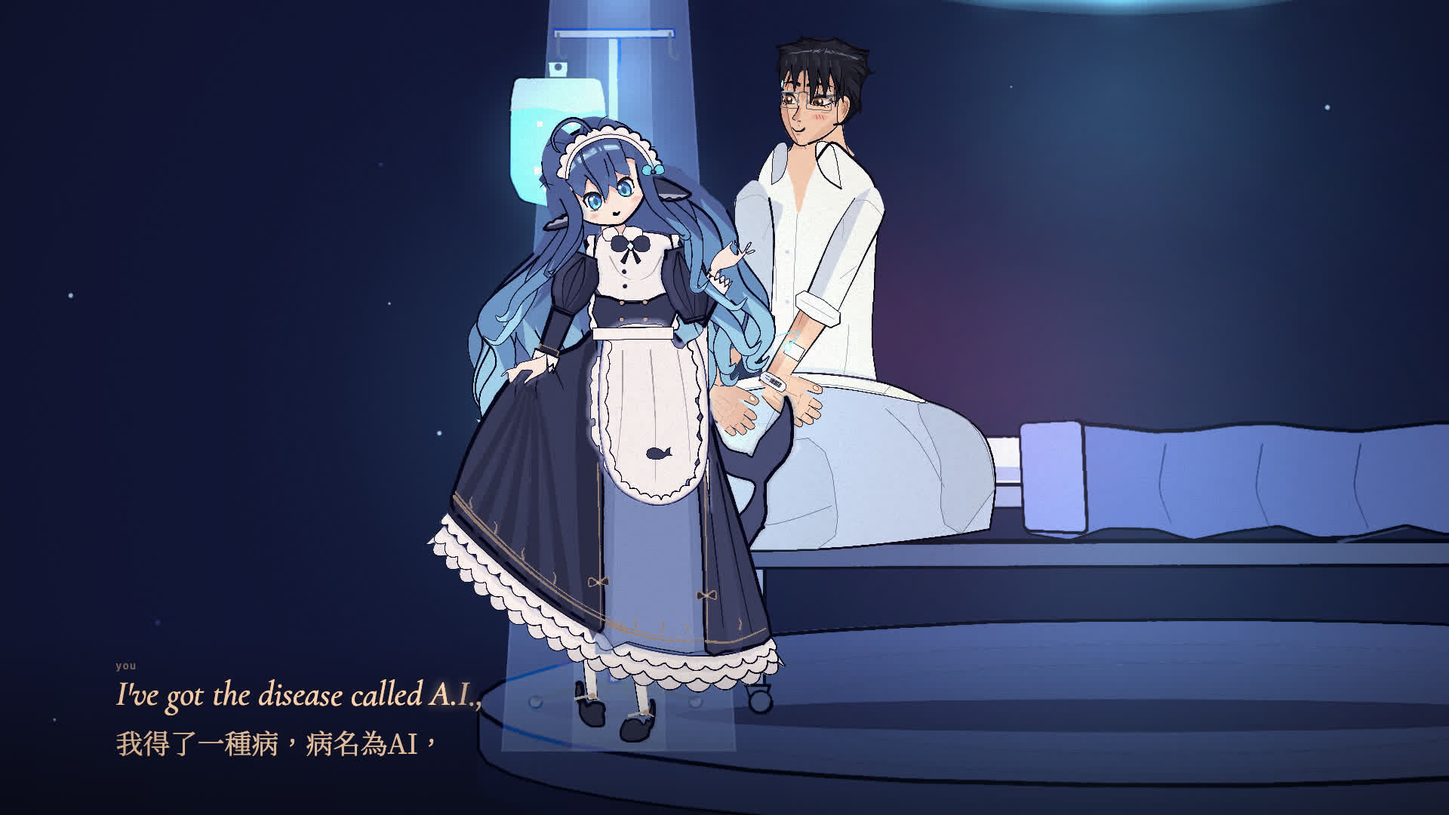
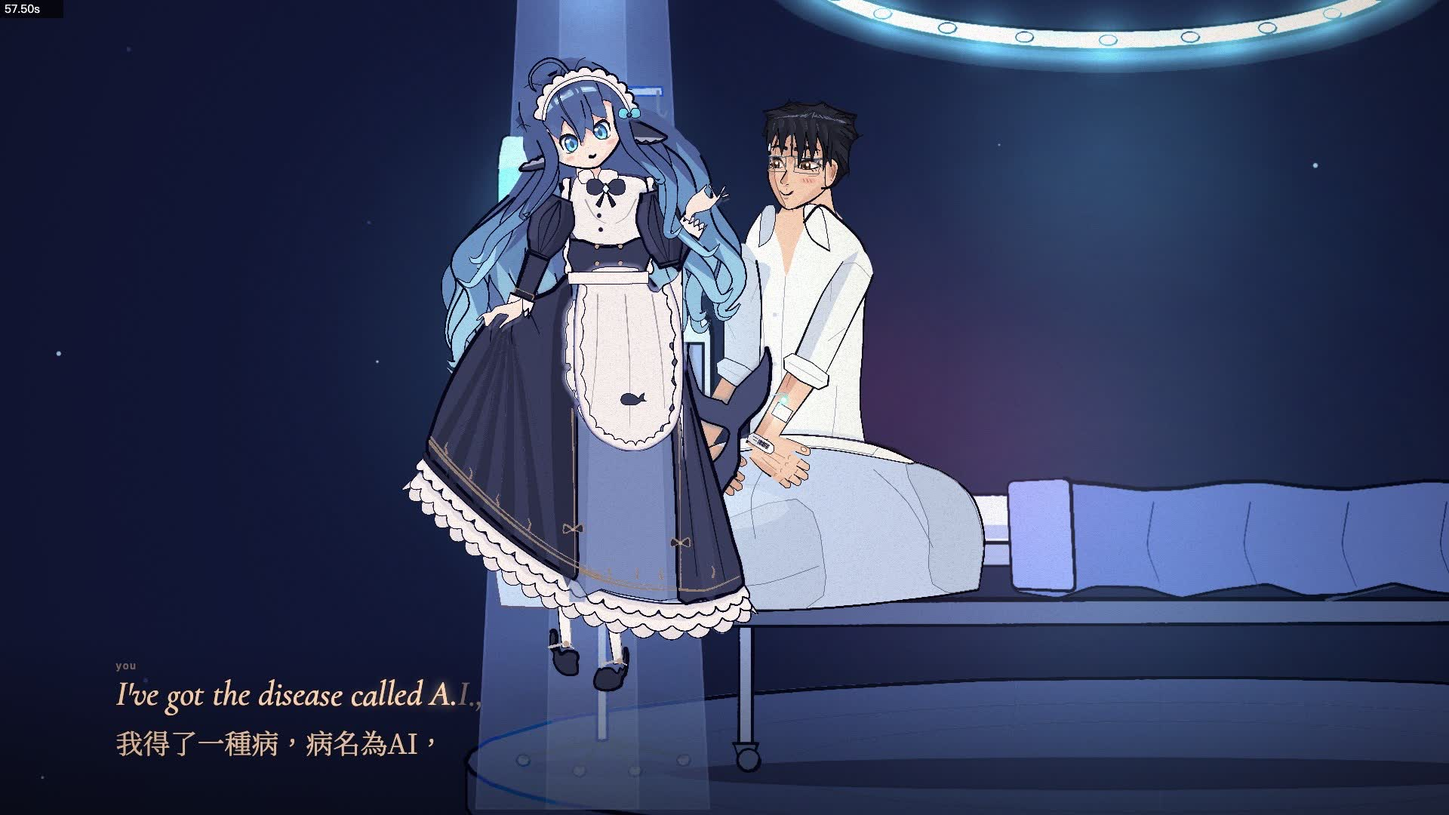
[review] G2 fix #1: 04F/05A/04D/04B/04E/04A/04G/04C per feedback

diff --git a/film/src/scenes/s04_chorus1.js b/film/src/scenes/s04_chorus1.js
@@ -41,12 +41,13 @@
   // 04A  55.81-58.60  the lamp flares on the downbeat (the loader of 03C was its ring), the camera tilts down to the bed island,
   // she comes down out of the light and drops into a curtsy (lands 58.20, dips till the cut).
   // reads: 55.81-56.90 the lamp flares, the tilt finds the island and him smiling in bed · 56.90-58.60 she descends, curtsies
-  // First frame: the ring lamp's centre at screen (960, 500), zoom 1 (03C's loader should end there).
+  // First frame: the ring lamp's centre at screen (960, 550), zoom 1 (03C's loader should end there).
   // =============================================================================================================
   const A_LAND = 58.20;
   function s04a(t, lt, dur) {
-    const k = kitMove(lt, .42, 1.2, { ant: .05, over: .035, pre: .1 });
-    const cx = lerp(1850, 1330, k), cy = lerp(870, 1500, k), z = lerp(1, 1.0, k);
+    // the tilt starts right after the flare and is done by ~56.7, so at 56.35 he already sits mid-frame on the island
+    const k = kitMove(lt, .16, .86, { ant: .04, over: .03, pre: .08 });
+    const cx = lerp(1850, 1345, k), cy = lerp(820, 1425, k), z = 1;       // frame 1 = SET_WARD.cam.lamp [1850, 820, 1]: the lamp centre at screen (960, 550), as 03C's loader ends
     const [dx, dy] = kitDrift(lt, 4, .35);
     camBegin(cx + dx, cy + dy, z);
     ward(t);
@@ -55,11 +56,11 @@
     const hf = himEmotions(t, [[T_A, 'smile', { blush: .55, sweat: .3, lookY: -.5, lookX: 0 }], [57.3, 'smile', { blush: .7, sweat: .4, lookX: .55, lookY: .05 }]], { take: .5 });
     himBed(t, { ...hf, boilKey: 's04 him' });
     // her: out of the lamp (head of the descent at the lamp), a slanting path to her place, then the curtsy dip
-    const t0 = 56.30, d = aiDescend(t, t0, A_LAND, 3.4);
-    const p = ease(seg(t, t0, A_LAND)), hx = lerp(1620, HER[0], p);
+    const t0 = 56.85, d = aiDescend(t, t0, A_LAND, 9.5);
+    const p = ease(seg(t, t0, A_LAND)), hx = lerp(1215, HER[0], p);          // comes down on HIS LEFT (screen left), where she stands in 04B
     const f = aiEmotions(t, [[T_A, 'smile']], {});
     if (t >= t0 - .05) {
-      if (d.beam > .02) aiBeam(hx, HER[1] - 8, AU, d.beam, { top: 940, w0: 1.1, w1: 1.9, key: 'a' });
+      if (d.beam > .02) aiBeam(hx, HER[1] - 8, AU, d.beam, { top: 700, w0: 1.1, w1: 1.9, key: 'a' });
       ai(hx, HER[1], AU, { ...f, ...d, form: 'full', view: 'front', pose: 'curtsy', pal: 'glow', t, boilKey: 's04 her' });
     }
     camEnd();
@@ -75,22 +76,23 @@
   // =============================================================================================================
   const B_FLARE = kitCut(44, 1, 59.99);
   function s04b(t, lt, dur) {
-    const z = lerp(1.1, 1.2, ease(lt / dur)), [dx, dy] = kitDrift(lt, 4, .35, .3);
-    camBegin(1320 + dx, 1400 + dy, z);
+    // pushed in on the two faces (the thermometer, its cyan column and his lips are the read); eases back for the clap
+    kitCam(lt, [[0, 1318, 1205, 1.62], [1.8, 1318, 1200, 1.78], [2.8, 1325, 1245, 1.62]], { drift: 3 });
     ward(t, { flash: 1.3 * kitEnv(t, B_FLARE, .015, .22) });
     const lvl = ease(seg(t, 59.40, 60.40)), hot = ease(seg(t, 59.7, 61.0));
     const hf = himEmotions(t, [[T_B, 'smile', { blush: .6, lookX: .5 }], [59.45, 'smile', { blush: .9, sweat: .8, lid: .45, lookX: .4 }]], { take: .5 });
-    const hl = himBed(t, { ...hf, blush: lerp(.6, 1, hot), sweat: lerp(.2, 1, hot), thermo: false });
+    const hl = himBed(t, { ...hf, mouth: t < T_B + .1 ? hf.mouth : 'parted', blush: lerp(.6, 1, hot), sweat: lerp(.2, 1, hot), thermo: false });
     // her hand: the thermometer's bulb end at his lips, held in a pinch
     const reach = kitMove(t, T_B - .12, T_B + .45, { ant: .0, over: .08 });
     const ang = -.42, hlen = .4 * 1.3 * AU, tipOff = 1.71 * hlen;
-    const palm = [hl.mouth[0] - Math.cos(ang) * tipOff + 4, hl.mouth[1] - Math.sin(ang) * tipOff + 2];
+    const palm = [hl.mouth[0] - Math.cos(ang) * tipOff + 9, hl.mouth[1] - Math.sin(ang) * tipOff - 13];       // the bulb end between his lips
     const rest = [HER[0] + 70, HER[1] - 330];
     const f = aiEmotions(t, [[T_B, 'smile'], [60.45, 'heart', {}]], {});
     const clap = t >= 60.5 ? aiAct('clap', t, 60.5, { form: 'full' }) : {};
     const hand = t < 60.5 ? { reachRW: [lerp(rest[0], palm[0], clamp(reach)), lerp(rest[1], palm[1], clamp(reach)) - 14 * Math.sin(clamp(reach) * Math.PI) * (reach < 1 ? 1 : 0)], handR: 'pinch', handAR: lerp(-1.1, ang, clamp(reach)),
       propR: { kind: 'thermometer', level: lvl } } : {};
     ai(HER[0], HER[1], AU, { ...f, ...clap, ...hand, form: 'full', view: 'front', pal: 'glow', t, rot: .16 * ease(seg(t, T_B - .15, T_B + .3)), dy: (f.dy || 0) - .55 * ease(seg(t, T_B - .3, T_B + .2)), boilKey: 's04 her' });
+    if (t < 60.5 && lvl > .02) glow(lerp(palm[0], hl.mouth[0], .45), lerp(palm[1], hl.mouth[1], .45), 70 + 50 * lvl, KIT.CYAN, .5 * lvl);       // the column's light, readable from afar
     camEnd();
   }
 
@@ -105,7 +107,9 @@
   const HER_C = [1292, 1965], POLE = [1182, 1560];
   function himC(t, ex = {}) {
     const f = himEmotions(t, [[T_C, 'smile', { blush: .6, sweat: .2 }], [C_WAVE0, 'smile', { blush: .7, lookX: .4 }], [C_WALK0, 'smile', { blush: .5 }], [C_PULL - .25, 'anxious'], [C_YANK, 'panic'], [C_LAND + .05, 'blank', { sweat: .6, blush: .8 }]], { take: .5 });
-    const base = { outfit: 'home', iv: 1, ivTo: PORT, boilKey: 's04 himC', ...f, ...ex };
+    // the IV line: slack at first, drawn tight as he reaches the end of his walk, stays tight through the snap, slack again once he lands
+    const ivSag = t < C_WALK0 ? 2.5 : t < C_LAND ? lerp(2.5, .2, ease(seg(t, C_WALK0 + .1, C_WALK1))) : lerp(.2, 2.5, ease(seg(t, C_LAND, C_LAND + .35)));
+    const base = { outfit: 'home', iv: 1, ivTo: PORT, ivSag, boilKey: 's04 himC', ...f, ...ex };
     const rise = ease(seg(t, C_UP0, C_UP1)), hop = ease(seg(rise, .28, .62));
     const gy = lerp(C_SEAT, C_FLOOR, hop);
     if (t < C_UP0 && t >= T_C) return him(C_ANCH, C_SEAT, HU, { ...base, pose: 'edge', flip: true, seatH: 8.2, arms: 'lap', phone: false });
@@ -156,9 +160,11 @@
   // faster; then she hangs in from the top of the frame, a finger hooked in the lamp's pull cord.
   // reads: 64.19-64.90 he shuts his eyes · 64.90-66.30 the lamp lights up a step and his eyes are pulled open, twice · 66.30-66.98 it is her
   // =============================================================================================================
-  const D_NOTCH = [1500, 640], D_U = 112, D_LAMP = [880, 125];
+  const D_NOTCH = [1500, 640], D_U = 112, D_LAMP = [880, 125], D_HY = 0;
   const D_STEPS = [kitCut(47, 3, 64.89), kitCut(48, 1, 65.59)];                    // the lamp lights up a level (b47 beat 3, b48 beat 1)
   const D_SHUT = [T_D + .22, D_STEPS[0] + .42], D_PEEK = T_D + 2.06;
+  // the profile's temple arm + lens edge were light grey on pale skin: read as a white bar across the face. Same palette, dark thin metal frame.
+  const dPal = () => HIM_PALS.s04dFrame || (HIM_PALS.s04dFrame = { ...himPal('human'), glass: '#5B5666', glassDk: '#2F2B3A' });
   function s04d(t, lt, dur) {
     const lampK = 1 + .42 * kitEase.sine(seg(t, D_STEPS[0], D_STEPS[0] + .06)) + .5 * kitEase.sine(seg(t, D_STEPS[1], D_STEPS[1] + .05)) + .35 * kitEnv(t, D_STEPS[0], .02, .18) + .45 * kitEnv(t, D_STEPS[1], .02, .2);
     setWardVoid('c1');
@@ -174,7 +180,13 @@
     const snap = kitEnv(t, D_STEPS[0] + .03, .02, .22) * .6 + kitEnv(t, D_STEPS[1] + .02, .015, .22) * 1;
     const f = himFeel('smile', t, { lid: clamp(closed) + (1 - closed) * .15, wide: clamp(snap), irisK: 1 - .14 * clamp(snap), browY: -.12 * clamp(snap), mouth: t < D_STEPS[0] ? 'soft' : 'parted', blush: .9, sweat: .7, low: 0 });
     push(); translate(D_NOTCH[0], D_NOTCH[1] + drop); rotate(-Math.PI / 2);
-    him(0, 0, D_U, { ...f, pose: 'bust', view: 'side', outfit: 'home', cut: 3.2, boilKey: 's04 himD', glare: 0 });
+    him(0, 0, D_U, { ...f, pose: 'bust', view: 'side', outfit: 'home', pal: (dPal(), 's04dFrame'), cut: 3.2, boilKey: 's04 himD', glare: 0 });
+    // profile spectacles: the engine's side view only has a temple arm + a lens edge line (a bar across the face), so draw the lens too:
+    // a tilted pane in front of the eye (head-local units: x = toward the face, origin between the eyes; the bust's head centre sits 2.8 u up)
+    { const hq = (a, b) => [a * D_U, (b - 2.8) * D_U + D_HY];
+      boilSeed('s04d lens');
+      paint([hq(.86, -.46), hq(1.56, -.44), hq(1.6, .4), hq(.9, .44)], { wash: '#CFEFFA', washOp: 70, ink: '#2F2B3A', sw: .9 });
+      inkLine([hq(1.44, -.34), hq(1.46, .2)], 1.2, '#FFFFFF', 'inkfine', 0); }
     pop();
     // the covers over the cut end of the bust
     boilSeed('s04d cover'); paint([[D_NOTCH[0] + 90, 826], [D_NOTCH[0] + 130, 560], [D_NOTCH[0] + 330, 520], [W + 60, 580], [W + 60, 826]], { wash: P.blanket, ink: P.ink, sw: 1, curv: .4 });
@@ -186,9 +198,9 @@
     // her: hanging in upside-down from the top edge, a finger through the lamp's cord
     const pk = kitOver(seg(t, D_PEEK - .26, D_PEEK), 1.4), cordFrom = [lx + 400, ly + 30];
     if (t > D_PEEK - .3) {
-      const hy = lerp(-420, 0, clamp(pk)) + 0;
+      const hy = lerp(-420, 120, clamp(pk));         // settles with the whole face in frame, eyes well below the top edge
       const af = aiEmotions(t, [[D_PEEK - .3, 'perfect'], [D_PEEK + .3, 'smile']]);
-      ai(1420, 640 + hy, 110, { ...af, form: 'full', view: 'front', pal: 'glow', t, roll: Math.PI, reachRW: [cordFrom[0] + 40, cordFrom[1] + 190], handR: 'point', handAR: -1.2,
+      ai(1650, 640 + hy, 110, { ...af, form: 'full', view: 'front', pal: 'glow', t, roll: Math.PI, reachRW: [cordFrom[0] + 40, cordFrom[1] + 190], handR: 'point', handAR: -1.2,
         propR: { kind: 'cord', from: cordFrom }, noShadow: true, boilKey: 's04 herD' });
     }
   }
@@ -200,8 +212,7 @@
   // =============================================================================================================
   const E_IN = T_E + 1.12, E_SWALLOW = T_YES, E_SPOON2 = T_YES + .36, E_IN2 = T_YES + 1.0;
   function s04e(t, lt, dur) {
-    const z = lerp(1.18, 1.26, ease(lt / dur)), [dx, dy] = kitDrift(lt, 4, .35, .9);
-    camBegin(1325 + dx, 1405 + dy, z);
+    kitCam(lt, [[0, 1322, 1215, 1.68], [dur, 1330, 1215, 1.82]], { drift: 3 });         // pushed in on both faces: the spoon, the capsule and his open mouth
     ward(t);
     const chew = kitEnv(t, E_SWALLOW, .03, .2), lean2 = kitMove(t, E_SPOON2 + .1, E_IN2 - .1, { ant: .0, over: .06 });
     const hf = himEmotions(t, [[T_E, 'smile', { blush: .8, sweat: .5, lookX: .5, lookY: -.2 }], [E_SWALLOW + .05, 'smile', { blush: 1, sweat: .6, lid: .8 }], [E_SPOON2, 'smile', { blush: 1, sweat: .6, lid: .6 }]], { take: .5 });
@@ -211,20 +222,35 @@
     // her spoon: up to his mouth, the capsule dropped in; then the second
     const ang = -.38, hlen = .4 * 1.3 * AU, bowl = 1.18 * hlen, rest = [HER[0] + 85, HER[1] - 400];
     const target = [hl.mouth[0] - Math.cos(ang) * (bowl + 6), hl.mouth[1] - Math.sin(ang) * (bowl + 6) + 4];
-    const k1 = kitMove(t, T_E + .1, E_IN, { ant: .06, over: .05 }), k1b = 1 - kitEase.sine(seg(t, E_IN + .12, E_SPOON2));        // in, then out for the second
-    const k2 = kitMove(t, E_SPOON2, E_IN2, { ant: .06, over: .04 });
+    const k1 = .74 * kitMove(t, T_E + .05, T_E + .6, { ant: .06, over: .04 }) + .26 * kitEase.in2(seg(t, E_IN - .3, E_IN)), k1b = 1 - kitEase.sine(seg(t, E_IN + .12, E_SPOON2));        // in, then out for the second
+    const k2 = .74 * kitMove(t, E_SPOON2, E_SPOON2 + .45, { ant: .06, over: .04 }) + .26 * kitEase.in2(seg(t, E_IN2 - .3, E_IN2));
     const second = t >= E_SPOON2 - .02, k = second ? k2 : (t < E_IN + .12 ? k1 : k1b * Math.min(1, k1));
-    const cap = !second ? (t < E_IN + .02 ? 'check' : null) : 'heart';
+    const cap = !second ? (t < E_IN + .02 ? 'check' : null) : 'heart';        // the prop's own capsule is tiny: s04Pill below draws a big one on the spoon
     const palm = [lerp(rest[0], target[0], clamp(k)) , lerp(rest[1], target[1], clamp(k)) - 26 * Math.sin(clamp(k) * Math.PI)];
     const f = aiEmotions(t, [[T_E, 'eager'], [E_SWALLOW + .1, 'smile'], [E_SPOON2 + .2, 'heart']]);
-    ai(HER[0], HER[1], AU, { ...f, reachRW: palm, handR: 'pinch', handAR: lerp(-1.0, ang, clamp(k)), propR: { kind: 'spoon', cap }, form: 'full', view: 'front', pal: 'glow', t,
+    ai(HER[0], HER[1], AU, { ...f, reachRW: palm, handR: 'pinch', handAR: lerp(-1.0, ang, clamp(k)), propR: { kind: 'spoon', cap: null }, form: 'full', view: 'front', pal: 'glow', t,
       rot: .15 * ease(seg(t, T_E - .1, T_E + .4)), dy: (f.dy || 0) - .55 * ease(seg(t, T_E - .2, T_E + .2)), boilKey: 's04 herE' });
     // the marks pop in (one frame) over the spoon, then fade; light down his throat on the swallow
     const bowlPt = [palm[0] + Math.cos(ang) * bowl, palm[1] + Math.sin(ang) * bowl];
-    if (!second && t > T_E + .38 && t < E_IN - .05) { const a = seg(t, T_E + .38, E_IN - .05); setCheck(bowlPt[0] - 52, bowlPt[1] - 84 - 10 * a, 44, KIT.CYANW, { glow: .9 * (1 - a * .7), key: 'e1' }); }
-    if (second && t > E_SPOON2 + .08 && t < E_IN2 + .1) { const a = seg(t, E_SPOON2 + .08, E_IN2 + .1); setHeart(bowlPt[0] - 52, bowlPt[1] - 84 - 10 * a, 46, SET_C.fever, { glow: .9 * (1 - a * .7), key: 'e2' }); }
+    if (cap) s04Pill([bowlPt[0] + 2, bowlPt[1] - 20], ang + .1, 70, cap, 'e' + cap);
+    if (!second && t > T_E + .38 && t < E_IN - .05) { const a = seg(t, T_E + .38, E_IN - .05); setCheck(bowlPt[0] - 70, bowlPt[1] - 90 - 14 * a, 78, KIT.CYANW, { glow: .9 * (1 - a * .6), key: 'e1' }); }
+    if (second && t > E_SPOON2 + .08 && t < E_IN2 + .1) { const a = seg(t, E_SPOON2 + .08, E_IN2 + .1); setHeart(bowlPt[0] - 70, bowlPt[1] - 90 - 14 * a, 64, SET_C.fever, { glow: .9 * (1 - a * .6), key: 'e2' }); }
     if (chew > .02) glow(hl.mouth[0] + 8, hl.mouth[1] + 70, 150, KIT.CYAN, .6 * chew);
     camEnd();
+  }
+
+  // a big glowing capsule (cream half, cyan half) with a ✓ or ♥ printed on the cyan half; len in world px; drawn live
+  function s04Pill(c, a, len, mark, key) {
+    const w = len * .44, d = [Math.cos(a), Math.sin(a)], n = [-d[1], d[0]], at = (x, y) => [c[0] + d[0] * x + n[0] * y, c[1] + d[1] * x + n[1] * y];
+    const half = sd => { const p = []; for (let i = 0; i <= 10; i++) { const q = -Math.PI / 2 + Math.PI * i / 10; p.push(at(sd * (len * .5 - w * .5 + Math.cos(q) * w * .5), Math.sin(q) * w * .5)); } p.push(at(0, w * .5), at(0, -w * .5)); return p; };
+    glow(c[0], c[1], len * 1.5, KIT.CYAN, .6);
+    boilSeed('s04pill ' + key);
+    paint(half(-1), { wash: '#FBF6EE', ink: '#241F2C', sw: 1.1 });
+    paint(half(1), { wash: '#3FCBEE', ink: '#241F2C', sw: 1.1 });
+    paint([at(-len * .4, -w * .3), at(len * .3, -w * .3), at(len * .3, -w * .15), at(-len * .4, -w * .15)], { wash: '#FFFFFF', washOp: 170, ink: null });
+    const z = w * .3, m = at(len * .2, w * .02);
+    if (mark === 'check') inkLine([[m[0] - z, m[1]], [m[0] - z * .2, m[1] + z * .8], [m[0] + z * 1.05, m[1] - z * .9]], 3.4, '#FFFFFF', 'ink', 0);
+    else paint(setHeartPts(m[0], m[1], z * 1.7), { wash: '#FF4F85', ink: null });
   }
 
   // =============================================================================================================
@@ -232,11 +258,11 @@
   // lips into his mouth along a curve; he closes his eyes and breathes them in; on "word" (71.16) he lights up from inside.
   // reads: 69.77-70.80 the ribbons flow from her to him · 70.80-72.56 he glows from within
   // =============================================================================================================
-  const F_HIM = [1250, 1000], F_HER = [330, 1000], F_UH = 100, F_UA = 165;
+  const F_HIM = [1250, 745], F_HER = [330, 745], F_UH = 88, F_UA = 145;          // composed upward: his eyes ~.42H, mouth ~.55H, chest still above the subtitle-safe line (.76H)
   function s04f(t, lt, dur) {
-    const z = lerp(1.0, 1.1, ease(lt / dur)), [dx, dy] = kitDrift(lt, 3, .3, 1.3);
+    const z = lerp(1.0, 1.06, ease(lt / dur)), [dx, dy] = kitDrift(lt, 3, .3, 1.3);
     setWardVoid('c1');
-    camBegin(960 + 60 * (z - 1) / .1 * .3 + dx, 560 + dy, z);
+    camBegin(960 + 60 * (z - 1) / .1 * .3 + dx, 540 + dy, z);
     const inner = ease(seg(t, T_F + 1.0, T_WORD + .25)) * (.8 + .2 * Math.sin(t * 9)), flare = kitEnv(t, T_WORD, .03, .3);
     const hf = himEmotions(t, [[T_F, 'smile', { lid: .5, blush: .8 }], [T_F + .9, 'peace', { blush: .9 }]], { take: .4 });
     him(F_HIM[0], F_HIM[1], F_UH, { ...hf, pose: 'bust', view: 'q', flip: true, outfit: 'home', cut: 2.4, mouth: t > T_F + .9 ? 'O' : 'parted', innerGlow: clamp(inner + .5 * flare), boilKey: 's04 himF' });
@@ -246,7 +272,11 @@
     const m0 = [AI_LAST.mouth[0] + 8, AI_LAST.mouth[1]], m1 = [hl.mouth[0] + 6, hl.mouth[1] + 2];
     const grow = ease(seg(t, T_F, T_F + .5));
     s04Ribbons(t, m0, m1, grow, flare);
-    if (inner > .02) glow(hl.mouth[0] + 40, hl.mouth[1] + 150, 340, KIT.CYAN, .45 * inner);
+    if (inner > .02) {                        // the light from inside: throat, then chest (both kept above the subtitle-safe line)
+      const th = ease(seg(t, T_F + 1.0, T_WORD + .1)), ch = clamp(ease(seg(t, T_WORD - .15, T_WORD + .35)) + .4 * flare);
+      glow(hl.mouth[0] + 24, hl.mouth[1] + 105, 230, KIT.CYAN, .9 * th); glow(hl.mouth[0] + 24, hl.mouth[1] + 100, 110, KIT.CYANW, .6 * th);
+      glow(hl.mouth[0] + 50, hl.mouth[1] + 195, 320, KIT.CYAN, .85 * ch); glow(hl.mouth[0] + 50, hl.mouth[1] + 190, 140, KIT.CYANW, .55 * ch);
+    }
     camEnd();
   }
   // streams of abstract symbol strokes (dashes, waves, loops, dots) running m0 -> m1 along a bowed curve, three streams, ~24 tokens
@@ -281,8 +311,9 @@
   const G_PAN0 = T_G + 1.44, G_PAN1 = T_G + 2.25;
   const G_PLUG = [1730, 1400];
   function s04g(t, lt, dur) {
-    const pan = kitEase.inOut3(seg(t, G_PAN0, G_PAN1)), z = lerp(1.2, 1.42, pan), [dx, dy] = kitDrift(lt, 3, .35, 1.7);
-    camBegin(lerp(1325, 1700, pan) + dx, lerp(1405, 1420, pan) + dy, z);
+    // down the cable and in: the dangling plug ends centred above the subtitle line at ~1.75x (head still in the upper left)
+    const pan = kitEase.inOut3(seg(t, G_PAN0, G_PAN1)), z = lerp(1.2, 1.78, pan), [dx, dy] = kitDrift(lt, 3, .35, 1.7);
+    camBegin(lerp(1325, 1655, pan) + dx, lerp(1405, 1335, pan) + dy, z);
     ward(t);
     const sway = Math.sin(bpOf(t) * Math.PI / 2), hit = pulse(t, 5);
     const hf = himEmotions(t, [[T_G, 'peace', { blush: .8 }]], { take: .3 });
@@ -297,7 +328,7 @@
       s04Note(p[0] + 8 * Math.sin(k * 12 + i), p[1], 26 + 6 * (i % 2), a, i);
     }
     if (lt < .3 && hl.cable) { const a = 1 - lt / .3; for (let i = 0; i <= 6; i++) glow(lerp(hl.cable[0], plug[0], i / 6), lerp(hl.cable[1], plug[1], i / 6) - 90 * Math.sin(i / 6 * Math.PI) * -.3, 90, KIT.CYAN, .8 * a); }
-    if (pan > .3) glow(plug[0] + 4, plug[1] + 30, 120, KIT.CYAN, .3 * pan);          // the bare plug, glinting in the air
+    if (pan > .3) { glow(plug[0] + 4, plug[1] + 30, 150, KIT.CYAN, .45 * pan); glow(plug[0] + 4, plug[1] + 20, 60, KIT.CYANW, .4 * pan); }          // the bare plug, glinting in the air
     camEnd();
   }
   // a music note (painted mark, not a letter): head, stem, flag; a = opacity-ish 0..1

diff --git a/film/src/scenes/s05_post.js b/film/src/scenes/s05_post.js
@@ -7,7 +7,15 @@
   const T_A = SEC.start, T_END = SEC.end, T_GATHER1 = T_A + 1.39, T_SWIRL = T_A + 2.79, T_ASH = kitCut(60, 1, 82.33);
   // the "always" onsets from the data (first syllable "al" of each PO line), else every 0.52 s from the downbeat
   const ONS = (() => { const o = []; for (const id of ['PO_1', 'PO_2', 'PO_3', 'PO_4']) { try { for (const sy of lyricById(id).syllables) if (/^al/i.test(sy.text)) o.push(sy.start); } catch (e) {} } return o.length ? o : Array.from({ length: 11 }, (_, i) => T_A + i * .52); })();
-  const CX = 960, NOTCH = 790, U = 190, MOUTH_Y = NOTCH - .36 * U, FACE_Y = NOTCH - 1.0 * U;
+  const CX = 960, NOTCH = 612, U = 190, MOUTH_Y = NOTCH - .36 * U, FACE_Y = NOTCH - 1.0 * U;
+  // the vortex: rings (round, not saturn-flat) on a spiral round her face, turning; more of them as the "always" pile up (n 8 -> 52)
+  function s05Swirl(t, ash, grey) {
+    const n = Math.round(lerp(8, 52, ease(seg(t, T_SWIRL - .25, T_ASH))));
+    for (let i = 0; i < n; i++) {
+      const k = i / 52, ang = i * 2.4 + t * (1.5 - 1.0 * k), orb = 140 + 520 * k, r = 70 + 170 * (1 - .5 * k) * (.6 + .4 * hash(i * 3.3));
+      setHalo(CX + Math.cos(ang) * orb, FACE_Y + 40 + Math.sin(ang) * orb * .72, r, { a: .7 * ease(seg(t, T_SWIRL - .25, T_SWIRL + .3)) * (1 - k * .5) * (1 - ash * .8), ash: grey, key: 'sw' + i, ry: .55 + .35 * Math.abs(Math.cos(ang * .5)) });
+    }
+  }
   function s05a(t, lt, dur) {
     const gather = ease(seg(t, T_A, T_GATHER1)), ash = ease(seg(t, T_ASH, T_END - .1)), pan = kitEase.in2(seg(t, T_ASH + .2, T_END)) * 420;
     setVoidLayer('indigo');
@@ -18,16 +26,21 @@
     const mv = (() => { try { return vox('ai', t); } catch (e) { return 0; } })();
     const sy = ONS.some(o => t >= o && t < o + .2) ? 1 : 0;
     const ashK = ash, grey = ease(seg(t, T_ASH - .1, T_ASH + .5));
-    if (t >= T_SWIRL) { const n = Math.round(lerp(8, 56, ease(seg(t, T_SWIRL, T_ASH))));          // behind her face: the vortex winds round her
-      setHaloSwirl(CX, FACE_Y + 60, t, n, { a: .75 * ease(seg(t, T_SWIRL, T_SWIRL + .3)) * (1 - ashK * .8), ash: grey, r: 560 }); }
+    if (t >= T_SWIRL - .25) s05Swirl(t, ash, grey);                                   // behind her face: the rings pile up and wind into a vortex
     const f = aiEmotions(t, [[T_A, 'perfect']]);
     ai(CX, NOTCH, U, { ...f, pose: 'bust', form: 'full', view: 'front', pal: 'glow', pal2: 'mirror', palK: grey, cut: 2.2, t, mouth: Math.max(mv, sy) > .55 ? 'A' : Math.max(mv, sy) > .25 ? 'O' : 'perfect',
       dissolve: clamp(dis), dissolveTo: [CX, 1500], dy: .08 * Math.sin(t * 2.2), boilKey: 's05 her' });
-    // the rings: one off her lips on every "always", growing and fading; from 80.93 they wind into a vortex
+    // the rings: one off her lips on every "always": centred on the mouth, widening and fading as they go
+    const M = (AI_LAST && AI_LAST.mouth) || [CX, MOUTH_Y];
     for (let i = 0; i < ONS.length; i++) {
-      const a = t - ONS[i]; if (a < 0 || a > 2.4) continue;
-      const k = easeOut(a / 2.4);
-      setHalo(CX, MOUTH_Y - 40 * k, 50 + 560 * k, { a: (1 - k) * (t < T_SWIRL ? 1 : .6) * (1 - ashK), ash: grey, key: 'r' + i, ry: .3 });
+      const a = t - ONS[i]; if (a < 0 || a > 1.5) continue;
+      const k = easeOut(a / 1.5), live = (1 - k) * (1 - ashK) * (a < .08 ? a / .08 : 1);
+      const r = 24 + 520 * k, pts = []; for (let q = 0; q <= 40; q++) { const an = q / 40 * TAU; pts.push([M[0] + Math.cos(an) * r, M[1] + Math.sin(an) * r * .92]); }
+      boilSeed('s05 ring' + i);                                                         // a bold light ring (thick when young, thin as it fades)
+      inkLine(pts, 3 + 9 * (1 - k) * (1 - k), mixCol(KIT.CYAN, '#7A7A84', grey), 'ink', 0);
+      inkLine(pts, 1.4 + 1.6 * (1 - k), mixCol(KIT.CYANW, '#8A8A92', grey), 'inkfine', 0);
+      setHalo(M[0], M[1], r, { a: live, ash: grey, key: 'r' + i, ry: .92 });
+      if (a < .35) glow(M[0], M[1], 90 + 80 * a / .35, KIT.CYANW, .7 * (1 - a / .35) * (1 - ashK));      // the breath of the sound at the lips
     }
     camEnd();
     if (t > T_END - .45) kitFade(kitEase.sine((t - (T_END - .45)) / .45) * .85, '#2A2A30');

diff --git a/docs/review/G2/notes.md b/docs/review/G2/notes.md
@@ -9,3 +9,13 @@
 - 04H 75.35-78.14 (~0.13-1.0; shatter frames 0.4-1.0): headphones lifted, plug pinched, ? pops, he looks at her, her mouth moves silently, flash at 77.79 and the ward breaks into 80 textured triangles flying outward over the indigo void.
 - 05A 78.14-83.72 (~0.08-0.45): void + setShards continuing, face gathers by dissolve, a halo per "always" onset (data), vortex from 80.93 (<=56 rings, behind the face), grey + ash + pan down from 82.33, fade to ash grey (#2A2A30) at the end for 06A. Weak: face sits low (mouth y ~0.65H) so the bust is cropped by the frame.
 Determinism: 14 frames checked, 1 (74.7) differed in order-shuffled run; identical in a pairwise pixel diff (GPU noise).
+
+## Fix #1 (review feedback G2 #1)
+- 04A: tilt now done by ~56.7 (kitMove .16-.86 s), frame 1 = SET_WARD.cam.lamp (lamp centre screen (960,550), zoom 1, unchanged for 03C); he sits mid-frame on the island; she descends 56.85-58.20 from above onto HIS LEFT (x 1215 -> 1115), same spot as 04B.
+- 04B: camera pushed to 1.62-1.78x on both faces (eases back for the clap); thermometer bulb now actually between his lips (mouth 'parted'), extra column glow; 04E: 1.68-1.82x, big painted capsule (s04Pill, ~70 px, x1.7 on screen) with a clear check / heart held beside his open mouth (67.4-68.0, 68.9-69.3), then in; marks enlarged.
+- 04C: `ivSag` 2.5 -> 0.2 over the walk (taut at 62.6-63.3 through the snap), slack again after the landing.
+- 04D: spectacles in profile: darker thin temple arm + a drawn lens pane around the eye (no white bar); her face hangs in at x 1650, eyes ~370 px below the top (66.30-66.98, whole face in frame).
+- 04F: recomposed upward (eyes ~.42H, mouth ~.56H), chest + throat glow both above .76H (71.16 'word'); her bust cut shortened so her hand stays above the line.
+- 04G: pan-down zoom 1.2 -> 1.78x, plug centred at ~.65H with a brighter glint.
+- 05A: face raised (mouth ~.50H, eyes ~.40H); every 'always' pushes a bold ring centred on the lips, widening and fading (1.5 s) with a lip glow; from 80.93 round rings on a spiral wind into a vortex behind her (8 -> 52 rings), grey/ash from 82.33, fade to #2A2A30 kept.
+- Key frames: 04A 57.5, 04B 59.9, 04C 62.85, 04D 66.65, 04E 67.8, 04F 71.3, 04G 74.8, 05A 81.9. Determinism: 9 frames identical.

diff --git a/docs/tasks/mac_02_status.md b/docs/tasks/mac_02_status.md
@@ -3,7 +3,7 @@
 | 組 | 段落 | 狀態 | 每幀秒數 | [ask] | 本機預覽 |
 |---|---|---|---|---|---|
 | G1 | S02+S03 | 待審（回饋 #1 已收，排隊修改：03B/02G 橫躺、03A 屏息特寫、02B ✓ 與手機手） | 0.03–0.55（轉場／首幀 1–1.7 s） | – | `film/out/preview_G1.mp4` |
-| G2 | S04+S05 | 修改中（fix #1：P1 五項） | 穩定幀約 0.1，重畫層／tile 時 0.8–1 | – | `film/out/preview_G2.mp4` |
+| G2 | S04+S05 | 待審（fix #1 已 push） | 穩定幀約 0.1，重畫層／tile 時 0.8–1 | – | `film/out/preview_G2.mp4`（已重出） |
 | G3 | S06+S07 | 待審（回饋 #1 已收，排隊修改） | 單 worker 約 0.1–0.5（重畫 tile 的幀到 1.3） | – | `film/out/preview_G3.mp4`（804 幀，2 workers 牆鐘 1.8 min） |
 | G4 | S08 | 進行中 | – | – | `film/out/preview_G4.mp4` |
 | G5 | S09 | 進行中 | – | – | – |
@@ -18,5 +18,6 @@
 
 ## 修改佇列（等子代理名額）
 1. G3 fix #1（06F 重做等）
-2. G1 fix #1
+2. G6（S10–S13）新工作
+（G1 fix #1 已開工）
 3. G6（S10–S13）新工作
